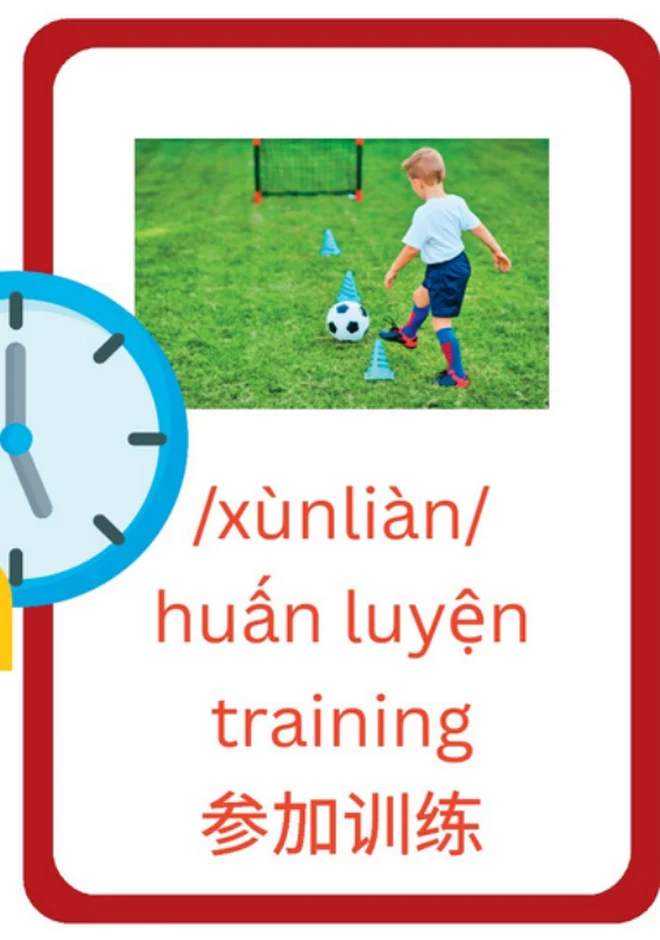
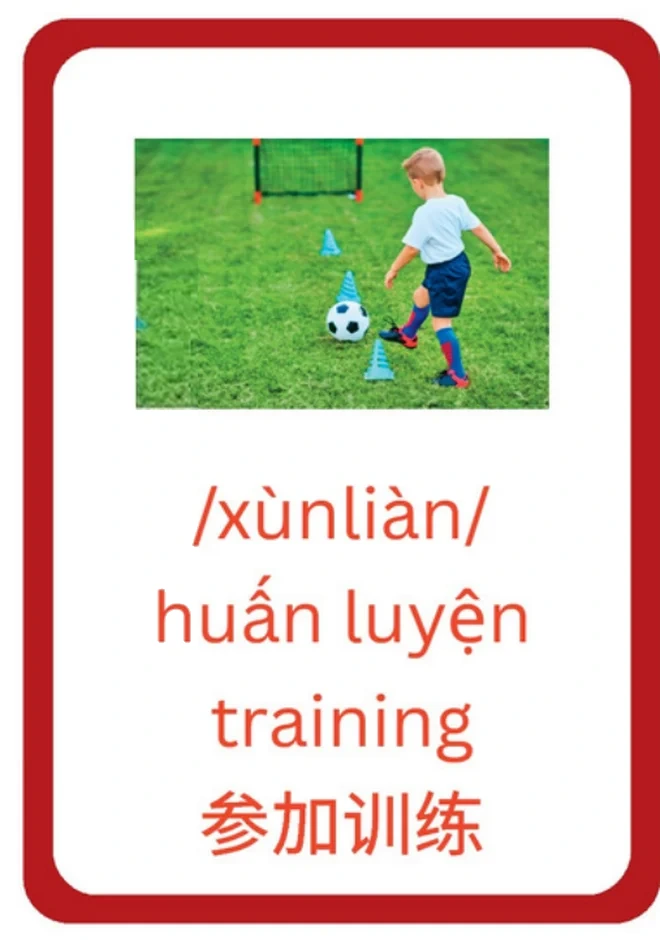
fix(flashcards): clean Lộ 3 card #2/#69 bleed artifacts, bridge audio-review overrides, and deduplicate forgot queue

Changed region(s): [[0.0, 0.2777, 0.303, 0.7404]]

diff --git a/flashcards/assets/js/app.js b/flashcards/assets/js/app.js
@@ -311,6 +311,11 @@
     };
 
     // 2. Đưa từ xuất hiện lại sau 3–5 thẻ khác trong phiên hiện tại (hoặc cuối phiên nếu còn ít hơn 3 thẻ)
+    for (let i = state.filteredCards.length - 1; i > state.currentIndex; i--) {
+      if (state.filteredCards[i] && state.filteredCards[i].id === card.id) {
+        state.filteredCards.splice(i, 1);
+      }
+    }
     const remainingAfterCurrent = state.filteredCards.length - 1 - state.currentIndex;
     const offset = remainingAfterCurrent >= 3
       ? Math.min(remainingAfterCurrent, 3 + Math.floor(Math.random() * 3))
@@ -572,23 +577,36 @@
     });
   }
 
+  function getCardAudioStatus(card) {
+    if (!card) return 'PENDING_REVIEW';
+    try {
+      const rawOverrides = localStorage.getItem('ktn_audio_audit_overrides_v2');
+      if (rawOverrides) {
+        const map = JSON.parse(rawOverrides);
+        const key = `${(state.activeLevel || 'lo1').toUpperCase()}#${card.id}`;
+        if (map && map[key] && map[key].status) {
+          return map[key].status;
+        }
+      }
+    } catch (_) {}
+    if (card.audio_status) return card.audio_status;
+    return card.audio_type === 'native_exact' ? 'APPROVED' : 'PENDING_REVIEW';
+  }
+
   function isCardAudioApproved(card) {
-    if (!card) return false;
-    if (card.audio_status) {
-      return card.audio_status === 'APPROVED';
-    }
-    return card.audio_type === 'native_exact';
+    return getCardAudioStatus(card) === 'APPROVED';
   }
 
   function updateAudioButtonsForCard(card) {
-    const approved = isCardAudioApproved(card);
+    const status = getCardAudioStatus(card);
+    const approved = status === 'APPROVED';
     clearAudioPlayingVisual();
     [dom.btnAudioFront, dom.btnAudioBack, dom.btnWriteAudio].forEach(btn => {
       if (!btn) return;
       btn.classList.toggle('is-unverified-audio', !approved);
       btn.setAttribute('aria-disabled', approved ? 'false' : 'true');
       btn.dataset.audioApproved = approved ? 'true' : 'false';
-      btn.dataset.audioStatus = (card && card.audio_status) || (approved ? 'APPROVED' : 'PENDING_REVIEW');
+      btn.dataset.audioStatus = status;
       btn.title = approved
         ? 'Phát âm tiếng Trung bản xứ đã kiểm định'
         : 'Đang cập nhật phát âm chuẩn cho từ này';
@@ -706,7 +724,8 @@
 
   function playAudio(audioPath) {
     const card = getCurrentCard();
-    if (!audioPath && card && !isCardAudioApproved(card)) {
+    const isDefaultCardAudio = !audioPath || (card && audioPath === card.audio);
+    if (isDefaultCardAudio && card && !isCardAudioApproved(card)) {
       try {
         if (dom.nativeAudioPlayer) {
           dom.nativeAudioPlayer.pause();
@@ -717,8 +736,8 @@
       showToast('⏳ Đang cập nhật phát âm chuẩn cho từ này — Em vẫn học hình, nghĩa và luyện viết bình thường nhé!');
       return false;
     }
-    if (!audioPath) {
-      audioPath = card ? card.audio : null;
+    if (!audioPath && card) {
+      audioPath = card.replacement_audio || card.audio || null;
     }
     if (!audioPath || !dom.nativeAudioPlayer) return false;
 

diff --git a/flashcards/sw.js b/flashcards/sw.js
@@ -23,6 +23,7 @@ const CORE_ASSETS = [
   './assets/images/cards/lo1/card_1_front.webp',
   './assets/images/cards/lo1/card_1_back.webp',
   './assets/images/cards/lo1/thumb_1.webp',
+  './assets/audio/cmn-你.mp3',
 ];
 
 self.addEventListener('install', (event) => {
